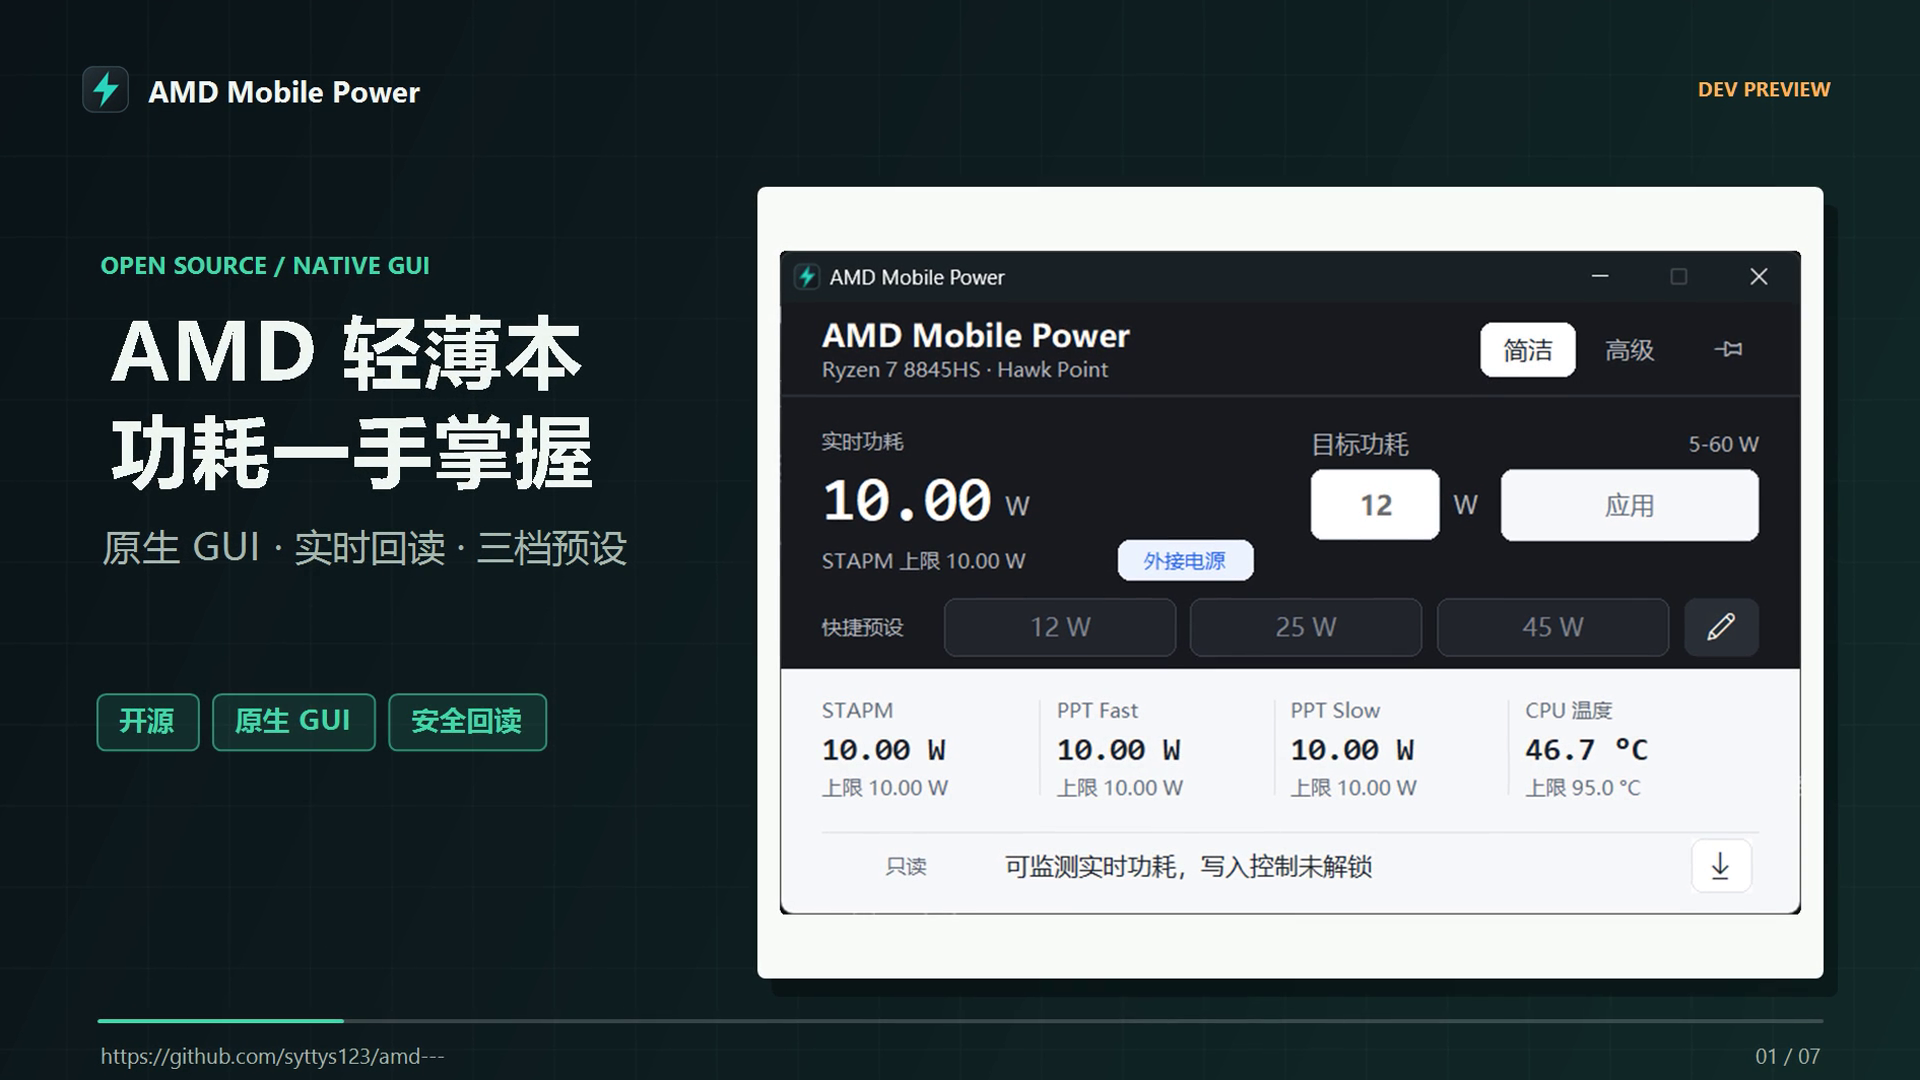
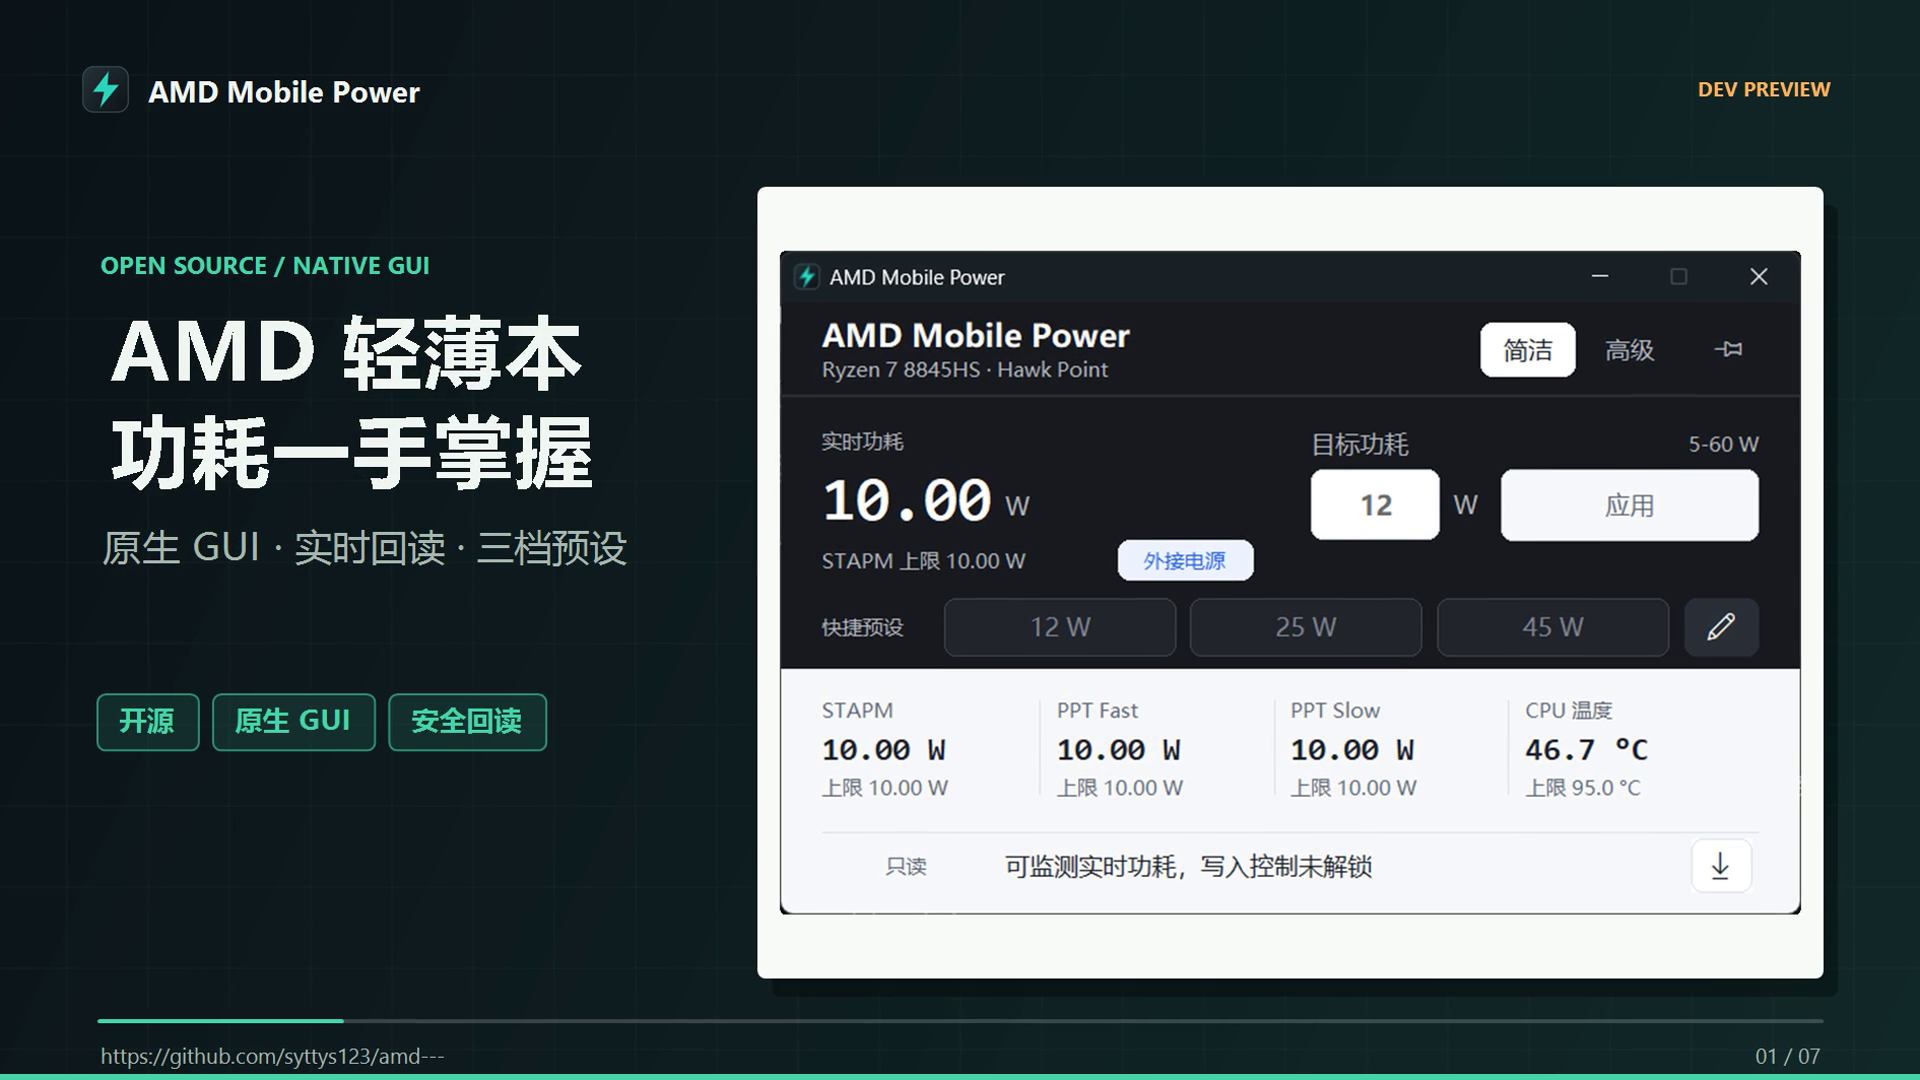
media: 宣传片加底部进度线并重渲染
v2 加 6px accent 进度条（按时间增长），重渲染 109.2s（99008705，24,145,236 字节），v3 Yaoyao 同步更新；verify-media 全量 PASS。

Changed region(s): [[0.0, 0.9778, 1.0, 1.0]]

diff --git a/docs/DEV_STATUS.md b/docs/DEV_STATUS.md
@@ -34,14 +34,18 @@ hashes, review assets, and cover. Evidence:
 2026-11-13 (media 1.0.23 v2): re-rendered the draft again after visual review.
 Each scene now uses its own camera motion (zoom or pan) instead of a static
 card, and the presets scene overlays an animated `10 / 12 / 25 / 45 W` counter
-on the UI capture. Video SHA256
[1 lines of base64/hex data omitted]
-`23,769,552` bytes, `109.2 s`. `verify-media.ps1` PASS.
+on the UI capture, and a thin accent progress bar runs along the bottom of the
+whole video. Video SHA256
[1 lines of base64/hex data omitted]
+`24,145,236` bytes, `109.2 s`. `verify-media.ps1` PASS.
 
 2026-11-13 (media 1.0.23 v3 candidate): rendered an alternate voice draft with
 `Microsoft Yaoyao` at rate 2 so the owner can compare narration quality before
 choosing the public take: `111 s`, `24,044,748` bytes, SHA256
[1 lines of base64/hex data omitted]
+choosing the public take: `111 s`, `24,413,847` bytes, SHA256
[2 lines of base64/hex data omitted]
+with the same motion, counter, and progress bar as v2).
 Path: `artifacts/media/amd-mobile-power-promo-1.0.23-v3-yaoyao-2026-11-13/`.
 Isolated voice samples (same sentence, rate 3 vs 1/2) live under
 `artifacts/media/voice-samples/`. The `v2` Huihui draft stays the default

diff --git a/docs/PROMO_VIDEO.md b/docs/PROMO_VIDEO.md
@@ -11,7 +11,8 @@ stereo audio, Chinese narration, and simplified-Chinese captions. It uses the
 `1.0.22-native` capture set (layout identical to `1.0.23`) together with the
 high-contrast, worker-offline, and device-panel states. Each scene now uses its
 own camera motion (zoom or pan) instead of a static card, and the presets scene
-shows an animated `10 / 12 / 25 / 45 W` counter on top of the UI capture. It is
+shows an animated `10 / 12 / 25 / 45 W` counter on top of the UI capture. A
+thin accent progress bar runs along the bottom of the whole video. It is
 marked `DRAFT_FOR_HUMAN_REVIEW`; it is not approved for upload.
 
 ![Promo draft cover](assets/native-promo-1.0.23-cover-2026-11-13.png)
@@ -29,9 +30,9 @@ artifacts/media/amd-mobile-power-promo-1.0.23-v2-2026-11-13/
   amd-mobile-power-intro-1.0.23-v2-2026-11-13.mp4
 ```
 
-- Size: 23,769,552 bytes.
+- Size: 24,145,236 bytes.
 - SHA256:
[2 lines of base64/hex data omitted]
 - Full-file FFmpeg decode: PASS.
 - Audio level: mean `-20.7 dB`, peak `-1.2 dB`.
 - Title, caption, and bullet safe-width checks: PASS.
@@ -94,5 +95,3 @@ or audio bound stops the render instead of producing an accepted draft.
   content appears.
 - The project owner reviews the final voice, pacing, claims, and cover before
   any authenticated upload.
-
-
